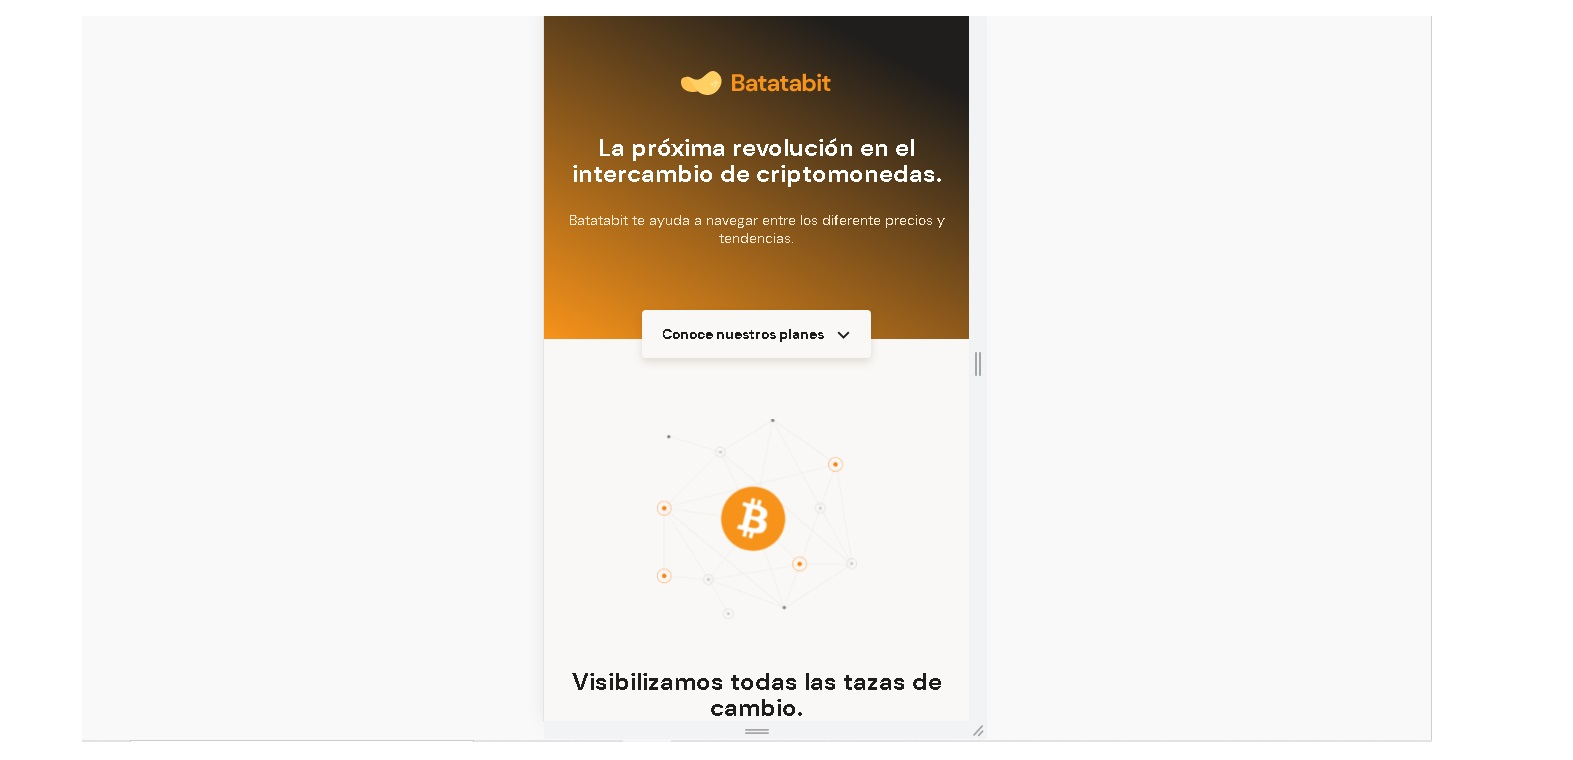
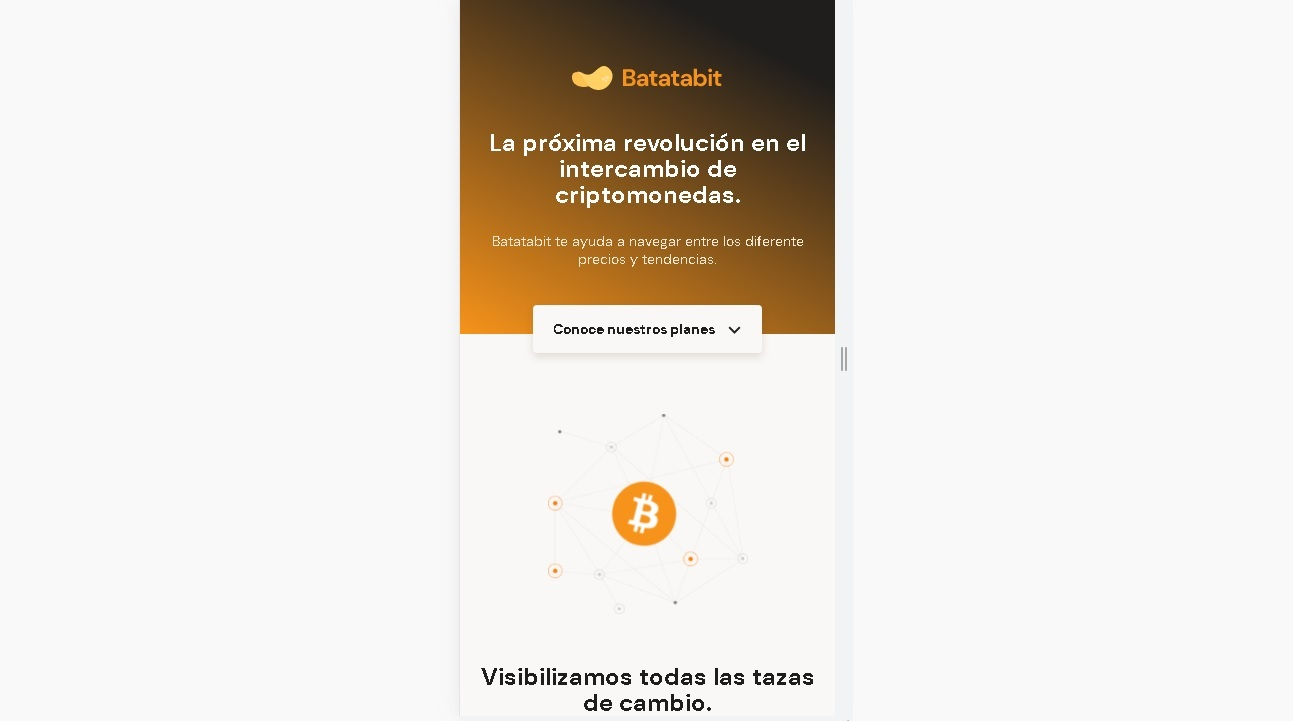
Form to google spreadsheet link test

diff --git a/CSS/style.css b/CSS/style.css
@@ -2,11 +2,14 @@
     box-sizing: border-box;
     margin: 0;
     padding: 0;
+    
 }
 
 html {
     font-size: 62.5%;
-    font-family: 'Poppins', sans-serif;
+    /* font-family: 'Poppins', sans-serif; */
+    font-family: 'Segoe UI', Tahoma, Geneva, Verdana, sans-serif;
+    scroll-behavior: smooth;
 }
 
 :root{
@@ -14,7 +17,7 @@ html {
     --grey: #ababab;
     --red: 	#d62d20;
     --yellow:   #f0db4f;
-    --blue:#0077a4;
+    --blue:hsl(196, 100%, 32%);
     --orange:#f34f29;
     --green:#008744;
     --blueReact: #61DBFB;
@@ -33,9 +36,8 @@ body {
 nav {
     height: 50px;
     display: flex;
-    justify-content: end;
-    padding-top: 5px;
-    padding-right: 10%;
+    justify-content: space-between;
+    padding: 5px 10% 0;
     position: fixed;
     top:0;
     right: 0;
@@ -44,10 +46,56 @@ nav {
     z-index: 1;
 }
 
+nav h1 {
+    
+    font-family: 'Segoe UI', Tahoma, Geneva, Verdana, sans-serif;
+    font-size: 3rem;
+    background: linear-gradient(
+        to left,
+        rgb(137, 194, 248),
+        rgb(0, 46, 88)
+    );
+    -webkit-background-clip: text;
+    -webkit-text-fill-color: transparent;
+    -webkit-align: center;
+}
 nav ul li {
     display: inline-block;
     list-style: none;
     margin: 10px 20px;
+}
+
+nav .fa-solid {
+    font-size: 2.5rem;
+    cursor: pointer;
+}
+
+nav .fa-bars {
+    margin-top: 10px;
+}
+
+nav ul {
+        background-color: #262626;
+        position: fixed;
+        top: 0;
+        right: -150px;
+        width: 150px;
+        height: auto;
+        padding-top: 50px;
+        z-index: 2;
+        transition: right 0.5s;
+    }
+
+nav ul li {
+    display: block;
+    margin: 20px;
+    text-align: center;
+}
+
+nav ul i {
+    position: absolute;
+    top:25px;
+    left: 25px;
 }
 
 nav ul li a {
@@ -129,7 +177,7 @@ nav ul li a:hover::after {
 }
 
 .sub-title {
-    font-size: 4rem;
+    font-size: 3.3rem;
     font-weight: 700;
 }
 
@@ -165,12 +213,12 @@ nav ul li a:hover::after {
 
 
 .about-col-2 h1 {
-    font-size: 3rem;
+    font-size: 2.3rem;
 }
 
 #about p {
-    font-size: 2rem;
-    line-height: 3rem;
+    font-size: 1.6rem;
+    line-height: 2rem;
 }
 
 .container-cv {
@@ -310,10 +358,6 @@ nav ul li a:hover::after {
     transform: translateY(-10px);
 }
 
-#services h1 {
-    font-weight: 500;
-}
-
 .service_item {
     width: 200px;
     font-size: 40px;
@@ -326,11 +370,11 @@ nav ul li a:hover::after {
 }
 
 .services-container h2 {
-    font-size: 2.5rem;
+    font-size: 2rem;
 }
 .services-container p {
     margin-top: 10px;
-    font-size: 1.6rem;
+    font-size: 1.4rem;
 }
 
 /* --------------Portfolio------------ */
@@ -508,13 +552,13 @@ nav ul li a:hover::after {
     cursor: pointer;
 }
 
-.btn:hover:active {
+/* .btn:hover:active {
     transform: translateY(-2px);
-}
+} */
 
 footer {
     width: 100%;
     text-align: center;
-    margin: 20px;
+    margin-bottom: 20px;
     font-size: 1.2rem;
 }

diff --git a/index.html b/index.html
@@ -15,14 +15,16 @@
     <header id="header">
         <div class="container"> 
             <nav>
-                <!-- <img src="" alt="logo"> -->
-                <ul>
-                    <li><a href="#header">Home</a></li>
-                    <li><a href="#about">About</a></li>
-                    <li><a href="#services">Services</a></li>
-                    <li><a href="">Portfolio</a></li>
-                    <li><a href="">Contact</a></li>
+                <h1>FR</h1>
+                <ul id="sidemenu">
+                    <li class="menu_item" data-url="home"><a href="#header">Home</a></li>
+                    <li class="menu_item" data-url="about"><a href="#about">About</a></li>
+                    <li class="menu_item" data-url="services"><a href="#services">Services</a></li>
+                    <li class="menu_item" data-url="portfolio"><a href="#portfolio">Portfolio</a></li>
+                    <li class="menu_item" data-url="contact"><a href="#contact">Contact</a></li>
+                    <i class="fa-solid fa-xmark" onclick="closemenu()"></i>
                 </ul>
+                <i class="fa-solid fa-bars" onclick="openmenu()"></i>
             </nav>
             <div class="header-text">
                 <img src="./CSS/img/small_photo_BN.png" alt="">
@@ -229,14 +231,14 @@
                         </div>
                     </div>
                     <div class="col-right">
-                        <form action="">
+                        <form name="submit-to-google-sheet">
                             <input  type="text" name="Name" placeholder="Your name" required>
 
-                            <input type="email" name="email" placeholder="Your email" required>
+                            <input type="email" name="Email" placeholder="Your email" required>
 
                             <textarea name="Message" rows="4" placeholder="Your message" required></textarea>
 
-                            <button class="btn btn2" type="submit"><i class="fa-solid fa-paper-plane"></i>  Send</button>
+                            <button class="btn btn2" type="submit">Submit</button>
 
                         </form>
                     </div>
@@ -251,5 +253,17 @@
 
     </footer>
     <script src="./js/style.js"></script>
+
+    <script>
+        const scriptURL = 'https://script.google.com/macros/s/AKfycby3qKLi1D80-cKmjyUiPlcRTa97KyHlzX69qJNxzsGElu-QsCPfOTvWoqHUyZcFIl3p/exec'
+        const form = document.forms['submit-to-google-sheet']
+      
+        form.addEventListener('submit', e => {
+          e.preventDefault()
+          fetch(scriptURL, { method: 'POST', body: new FormData(form)})
+            .then(response => console.log('Success!', response))
+            .catch(error => console.error('Error!', error.message))
+        })
+      </script>
 </body>
 </html>

diff --git a/CSS/desktop.css b/CSS/desktop.css
@@ -10,6 +10,35 @@ header {
     background-repeat: no-repeat;
 }
 
+nav {
+    height: auto;
+}
+nav ul {
+    display: block;
+}
+
+nav .fa-solid {
+    display: none;
+}
+
+nav ul {
+    background-color: var(--black);
+    position:static;
+    top: 0;
+    right: 0;
+    width: auto;
+    height: auto;
+    padding-top: 5px;
+    z-index: 1;
+    transition: none;
+}
+
+
+nav ul li {
+    display: inline-block;
+    list-style: none;
+    margin: 10px 20px;
+}
 .header-text {
     width: 60%;
     margin-top: 25%;
@@ -41,4 +70,5 @@ header {
 .work-list {
     grid-template-columns: repeat(auto-fit, minmax(350px, 1fr));
 }
+
 

diff --git a/CSS/tablet.css b/CSS/tablet.css
@@ -20,6 +20,27 @@
     display: none;
 }
 
+.sub-title {
+    font-size: 4rem;
+}
+
+#about p {
+    font-size: 2rem;
+    line-height: 3rem;
+}
+
+.about-col-2 h1 {
+    font-size: 3rem;
+}
+
+.services-container h2 {
+    font-size: 2.5rem;
+}
+.services-container p {
+    margin-top: 10px;
+    font-size: 1.6rem;
+}
+
 .work-list {
     grid-template-columns: repeat(auto-fit, minmax(250px, 1fr));
 }

diff --git a/js/style.js b/js/style.js
@@ -1,3 +1,13 @@
+var sidemenu = document.getElementById("sidemenu");
+
+function openmenu(){
+    sidemenu.style.right="0";
+}
+
+function closemenu(){
+    sidemenu.style.right = "-150px";
+}
+
 var tablinks = document.getElementsByClassName("tab-links");
 var tabcontents = document.getElementsByClassName("tab-contents");
 
